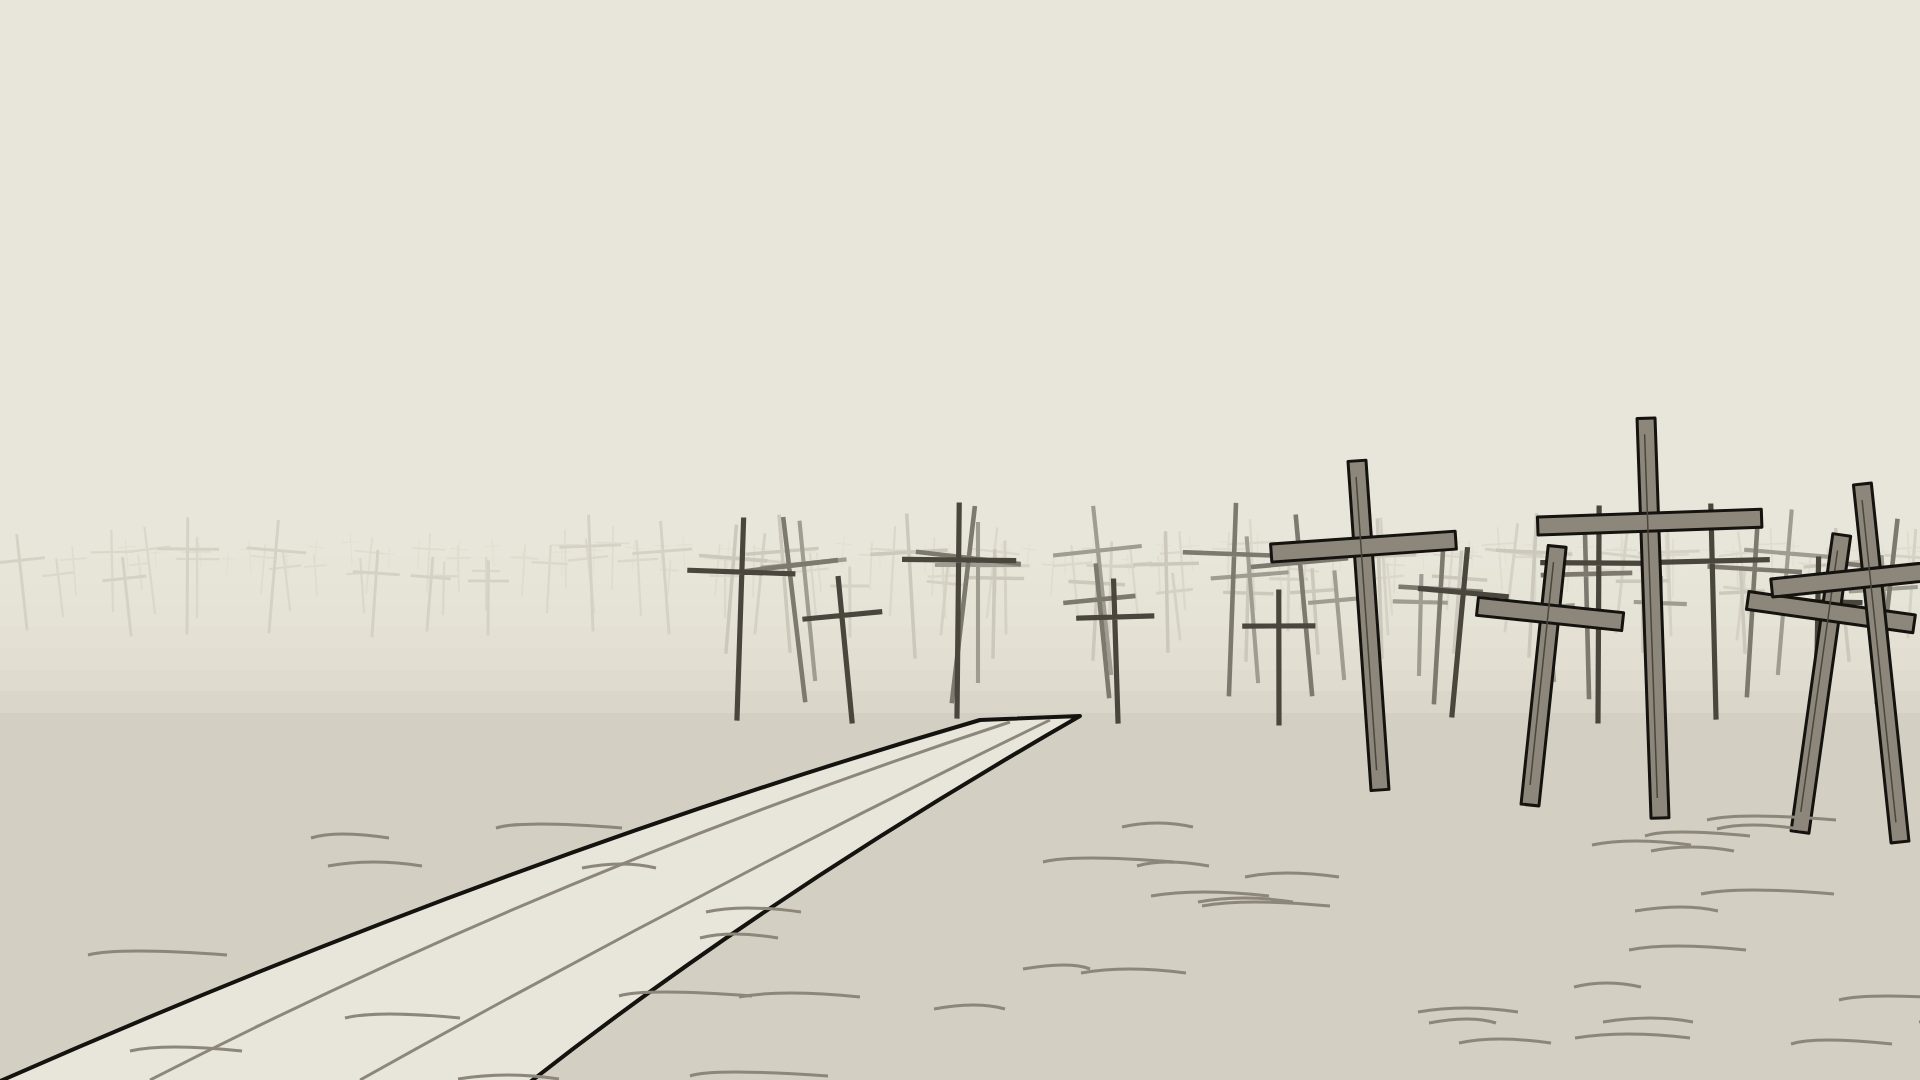
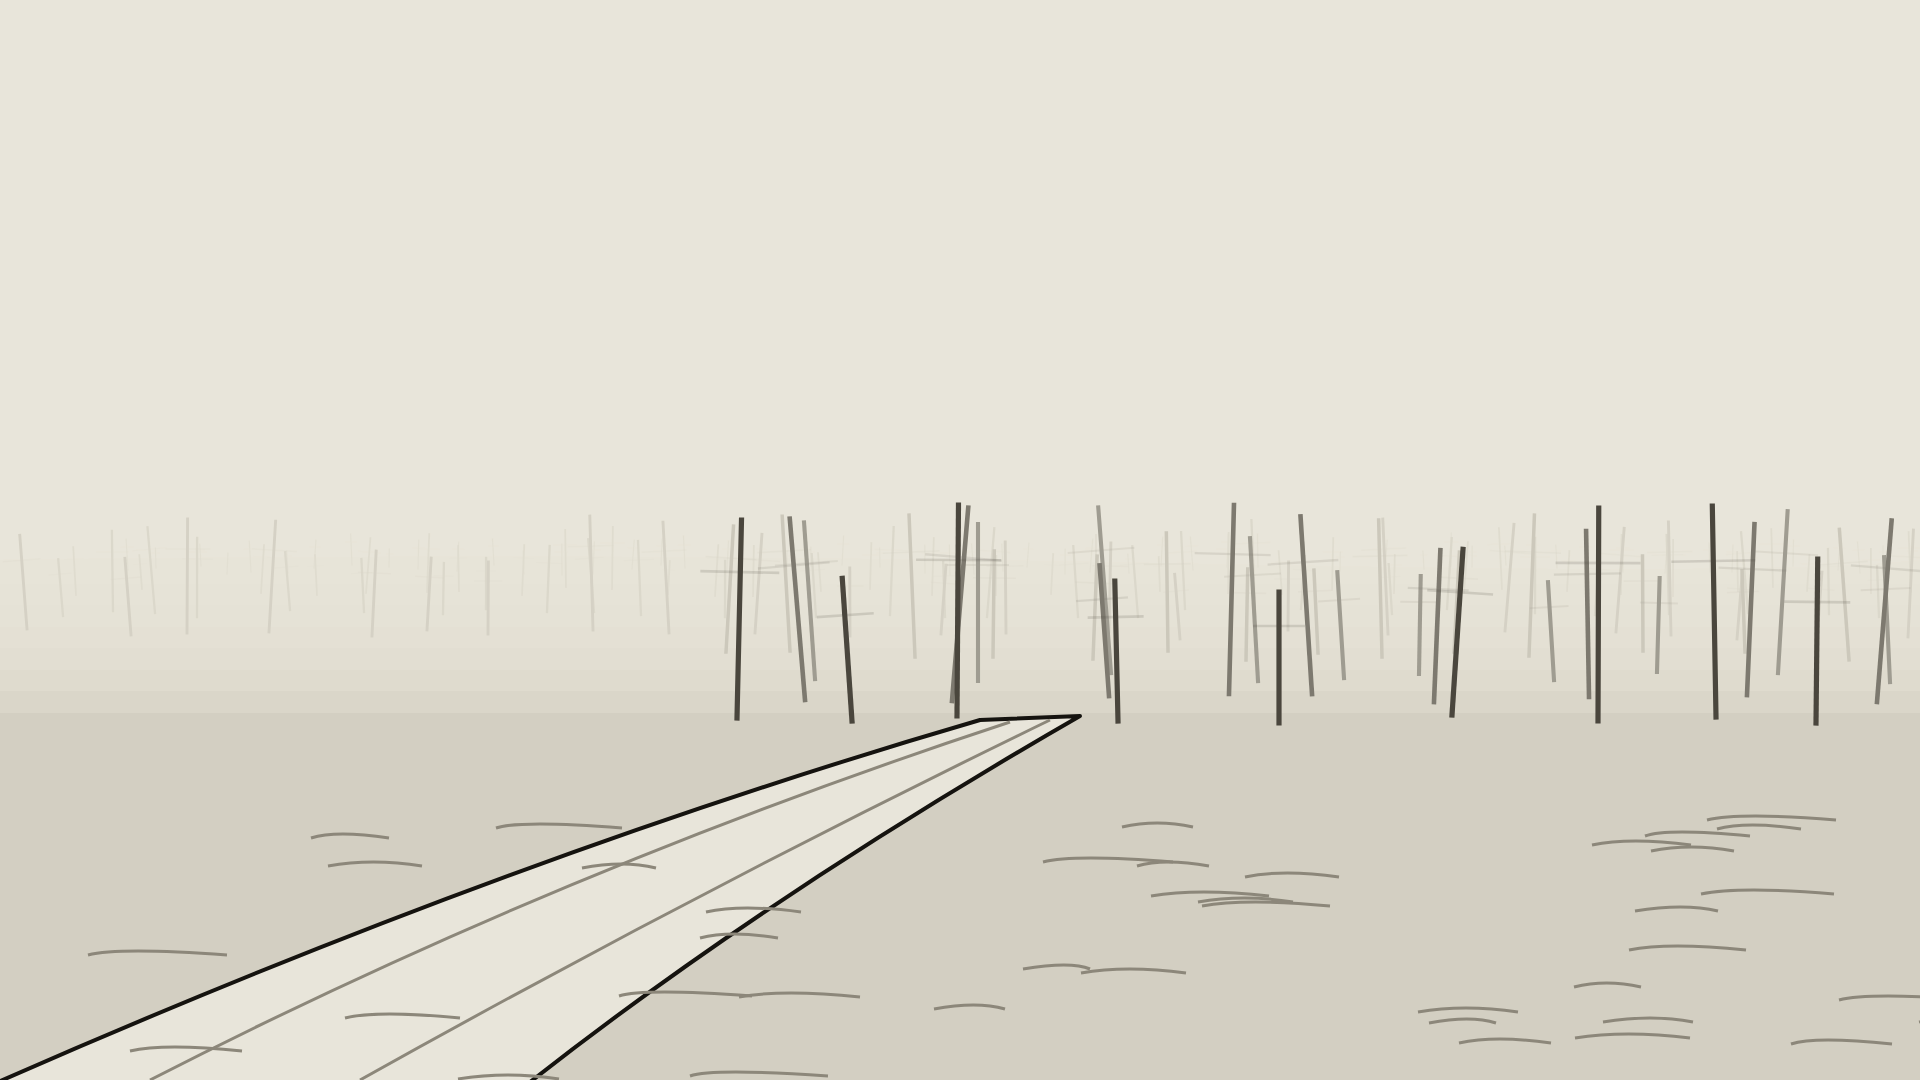
e4_sortie_hopital : la forêt reste ambiguë, des troncs trop droits sans branches
Demande du Narrative : Tobie prend les croix pour des arbres jusqu'à l'étape 5. Les plans de
profondeur, les troncs de travers et la brume restent ; les traverses se perdent dans la
brume, les grandes croix de bois du premier plan sont retirées.

Claude-Session: https://claude.ai/code/session_011WbKxBfoJbcyebqrVqkEA5

diff --git a/tools/gen_cin_e4_sortie.py b/tools/gen_cin_e4_sortie.py
@@ -9,10 +9,11 @@ derrière Tobie ; dehors, la lumière est blanche ; au loin, la forêt de croix.
   cin_e4-sortie-battant  3 images de ZONE_BATTANT, en ligne : le battant ouvert vers
                          l'intérieur, le noir de l'hôpital (0), à demi (1), clos (2).
   P3, plan large :
-  cin_e4-sortie-foret    la route qui monte, et au loin la forêt de croix, en plusieurs plans
-                         de profondeur : croix de travers, tailles inégales, la brume qui mange
-                         le fond (comme la Forêt de Croix validée, mais à l'endroit : l'étape 4
-                         n'est pas inversée).
+  cin_e4-sortie-foret    la route qui monte, et au loin la forêt, en plusieurs plans de
+                         profondeur : des troncs trop droits, de travers, de tailles inégales,
+                         sans branches, la brume qui mange le fond. Ce sont les croix de l'étape 5,
+                         mais leurs traverses se perdent dans la brume : Tobie y voit des arbres
+                         (« des arbres trop droits, qui n'ont pas de branches »).
 
 Tobie (chr_tobie_repos_01 et son ruban) est posé par la ciné. Aucun rouge.
 
@@ -112,20 +113,14 @@ def plan_battant(k: int) -> str:
 
 
 # --- P3 : la forêt de croix -----------------------------------------------------------------------
-def croix(x: float, pied: float, h: float, ep: float, couleur: str, penche: float) -> str:
-    b = h * .26
-    return (f'<g transform="rotate({penche:.1f} {x:.0f} {pied:.0f})"><path d="M{x:.0f} {pied:.0f} V{pied - h:.0f} '
-            f'M{x - b:.0f} {pied - h * .74:.0f} H{x + b:.0f}" stroke="{couleur}" stroke-width="{ep:.1f}" stroke-linecap="square"/></g>')
-
-
-def croix_bois(x: float, pied: float, h: float, larg: float, penche: float) -> str:
-    """Une croix proche, en planches : aplats cernés, une veine, de travers."""
-    b = h * .28
-    ty = pied - h * .74
-    return (f'<g transform="rotate({penche:.1f} {x:.0f} {pied:.0f})">'
-            f'<rect x="{x - larg / 2:.0f}" y="{pied - h:.0f}" width="{larg:.0f}" height="{h:.0f}" fill="{MINE}" {ST} stroke-width="3"/>'
-            f'<rect x="{x - b:.0f}" y="{ty - larg / 2:.0f}" width="{2 * b:.0f}" height="{larg:.0f}" fill="{MINE}" {ST} stroke-width="3"/>'
-            f'<path d="M{x - 2:.0f} {pied - h + 16:.0f} V{pied - 20:.0f}" stroke="{LAVIS}" stroke-width="1.5"/></g>')
+def poteau(x: float, pied: float, h: float, ep: float, couleur: str, penche: float) -> str:
+    """Un tronc trop droit, sans branches : une croix vue de loin, dont la traverse se perd
+    dans la brume (à peine un trait pâle). Tobie croit voir des arbres ; il ne comprend qu'à
+    l'étape 5 (demande du Narrative)."""
+    b = h * .2
+    return (f'<g transform="rotate({penche:.1f} {x:.0f} {pied:.0f})"><path d="M{x:.0f} {pied:.0f} V{pied - h:.0f}" '
+            f'stroke="{couleur}" stroke-width="{ep:.1f}" stroke-linecap="square"/>'
+            f'<path d="M{x - b:.0f} {pied - h * .74:.0f} H{x + b:.0f}" stroke="{couleur}" stroke-width="{ep * .5:.1f}" opacity=".16"/></g>')
 
 
 def foret() -> str:
@@ -145,13 +140,10 @@ def foret() -> str:
         x = r.uniform(-pas, 0) + 700 * (1 - t) * .2
         while x < W + pas:
             if t < .5 or x > 700:
-                o.append(croix(x, pied + r.uniform(-5, 5), h * r.uniform(.7, 1.3), ep, couleur, r.uniform(-7, 7)))
+                o.append(poteau(x, pied + r.uniform(-5, 5), h * r.uniform(.7, 1.3), ep, couleur, r.uniform(-5, 5)))
             x += pas * r.uniform(.6, 1.4)
         if rang < rangs - 1:
             o.append(f'<rect x="0" y="{HORIZON - 200}" width="{W}" height="{pied - HORIZON + 214:.0f}" fill="{PAPIER}" opacity=".32"/>')
-    # la lisière proche, à droite : quelques grandes croix de bois, de travers
-    for x, h, a in ((1380, 330, -4), (1530, 260, 6), (1660, 400, -2), (1800, 300, 8), (1900, 360, -6)):
-        o.append(croix_bois(x, HORIZON + 230 + (x - 1380) * .1, h, 18, a))
     # la route qui monte de la gauche vers la forêt, ses ornières
     o.append(f'<path d="M-20 {H + 10} Q500 860 980 {HORIZON + 160} L1080 {HORIZON + 156} Q760 900 520 {H + 10} Z" fill="{PAPIER}" {ST} stroke-width="4"/>')
     o.append(f'<path d="M150 {H} Q560 870 1010 {HORIZON + 162} M360 {H} Q700 890 1050 {HORIZON + 160}" fill="none" stroke="{MINE}" stroke-width="3"/>')
